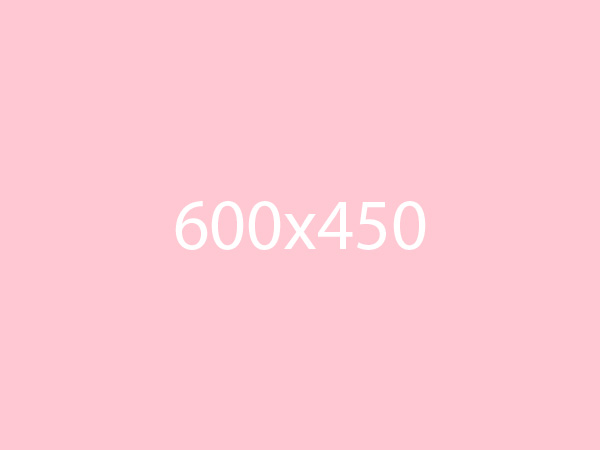
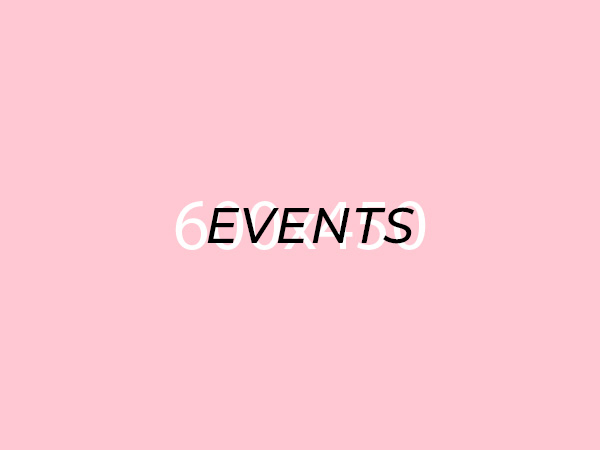
Add files via upload

Changed region(s): [[0.33, 0.4356, 0.69, 0.56]]

diff --git a/index.html b/index.html
@@ -53,7 +53,6 @@
 						<li><a href="#about-section">About</a></li>
 						<li><a href="#services-section">What I Do</a></li>
 						<li><a href="#works-section">Works</a></li>
-						<li><a href="#blog-section">Blog</a></li>
 						<li><a href="#contact-section">Contact</a></li>
 					</ul>
 					<a href="#" class="close"></a>
@@ -61,10 +60,8 @@
 			</div>
 		</header>
 		
-		<!-- Container -->
 		<div class="container">
 
-			<!-- Section Started -->
 			<div class="section started">
 				<div class="slide" style="background-image: url(images/slide-bg-1.jpg);"></div>
 				<div class="centrize full-width">
@@ -161,134 +158,141 @@
 							<label><input type="radio" name="fl_radio" value="box-item" />All</label>
 						</div>
 						<div class="f_btn">
-							<label><input type="radio" name="fl_radio" value="f-branding" />Branding</label>
+							<label><input type="radio" name="fl_radio" value="f-events" />Events</label>
 						</div>
 						<div class="f_btn">
-							<label><input type="radio" name="fl_radio" value="f-mockups" />Mockups</label>
+							<label><input type="radio" name="fl_radio" value="f-corpo" />Corporate</label>
 						</div>
 						<div class="f_btn">
-							<label><input type="radio" name="fl_radio" value="f-ui" />UI Kits</label>
+							<label><input type="radio" name="fl_radio" value="f-mockup" />Mockup</label>
 						</div>
 						<div class="f_btn">
-							<label><input type="radio" name="fl_radio" value="f-photo" />Photography</label>
+							<label><input type="radio" name="fl_radio" value="f-network" />Network</label>
 						</div>
 					</div>
 					<div class="row box-items">
-						<div class="col col-m-12 col-t-6 col-d-6 box-item f-mockups">
+						
+						<div class="col col-m-12 col-t-6 col-d-6 box-item f-events">
 							<div class="item animated">
 								<div class="desc">
 									<div class="image">
-										<a href="#popup-1" class="has-popup"><img src="images/works/work1.jpg" alt="" /></a>
+										<a href="#popup-1" class="has-popup"><img src="images/works/event.jpg" alt="" /></a>
 									</div>
-									<div class="category">Mockups</div>
+									<div class="category">Event</div>
 									<div class="name">
-										<a href="#popup-1" class="has-popup">Shopping Bag PSD MockUp</a>
+										<a href="#popup-1" class="has-popup">Pageants</a>
 									</div>
 								</div>
 							</div>
 							<div id="popup-1" class="popup-box mfp-fade mfp-hide">
 								<div class="content">
 									<div class="image">
-										<img src="images/works/work1.jpg" alt="">
+										<img src="images/works/event.jpg" alt="">
 									</div>
 									<div class="desc">
-										<div class="category">Mockups</div>
-										<h4>Shopping Bag PSD MockUp</h4>
+										<div class="category">Event</div>
+										<h4>Pageants</h4>
 										<p>
-											Here’s a new b-cards mock-up with several business cards scattered across the scene. The PSD file allows you to easily. Here’s a new b-cards mock-up with several business cards scattered across the scene.
+											We create stunning visuals for pageants in Palawan, including the renowned Miss Puerto Princesa, enhancing the event with dynamic graphics and captivating live visuals..
 										</p>
 										<a href="#" class="btn">View Project</a>
 									</div>
 								</div>
 							</div>
 						</div>
-						<div class="col col-m-12 col-t-6 col-d-6 box-item f-branding">
+						
+						
+						<div class="col col-m-12 col-t-6 col-d-6 box-item f-corpo">
 							<div class="item animated">
 								<div class="desc">
 									<div class="image">
-										<a href="#popup-2" class="has-popup"><img src="images/works/work2.jpg" alt="" /></a>
+										<a href="#popup-2" class="has-popup"><img src="images/works/web1.jpg" alt="" /></a>
 									</div>
-									<div class="category">Branding</div>
+									<div class="category">Website</div>
 									<div class="name">
-										<a href="#popup-2" class="has-popup">Realistic Business Cards</a>
+										<a href="#popup-2" class="has-popup">Resort in Palawan</a>
 									</div>
 								</div>
 							</div>
 							<div id="popup-2" class="popup-box mfp-fade mfp-hide">
 								<div class="content">
 									<div class="image">
-										<img src="images/works/work2.jpg" alt="">
+										<img src="images/works/web1.jpg" alt="">
 									</div>
 									<div class="desc">
-										<div class="category">Branding</div>
-										<h4>Hanging Wall Sign</h4>
+										<div class="category">Website</div>
+										<h4>Resort in Palawan</h4>
 										<p>
-											The freebie of the day is a logo design kit with an original theme that will help you create 
-											stunning mountain bike related logos in just minutes.
+											Involves crafting a visually stunning and user-friendly platform that showcases the resort's unique offerings while providing an exceptional user experience..
 										</p>
-										<a href="#" class="btn">View Project</a>
+										<a href="https://costapalawanresort.com" class="btn">View Project</a>
 									</div>
 								</div>
 							</div>
 						</div>
-						<div class="col col-m-12 col-t-6 col-d-6 box-item f-mockups">
+						
+						
+						<div class="col col-m-12 col-t-6 col-d-6 box-item f-corpo">
 							<div class="item animated">
 								<div class="desc">
 									<div class="image">
-										<a href="#popup-3" class="has-popup"><img src="images/works/work3.jpg" alt="" /></a>
+										<a href="#popup-3" class="has-popup"><img src="images/works/web2.jpg" alt="" /></a>
 									</div>
-									<div class="category">Mockups</div>
+									<div class="category">Website</div>
 									<div class="name">
-										<a href="#popup-3" class="has-popup">Realistic Business Cards</a>
+										<a href="#popup-3" class="has-popup">Hotel in Palawan</a>
 									</div>
 								</div>
 							</div>
 							<div id="popup-3" class="popup-box mfp-fade mfp-hide">
 								<div class="content">
 									<div class="image">
-										<img src="images/works/work3.jpg" alt="">
+										<img src="images/works/web2.jpg" alt="">
 									</div>
 									<div class="desc">
-										<div class="category">Mockups</div>
-										<h4>Realistic Business Cards</h4>
+										<div class="category">Website</div>
+										<h4>Hotel in Palawan</h4>
 										<p>
-											Today we’re happy to share with you the mockup of a classic notebook that will help you showcase your drawings. Today we’re happy to share with you the mockup of a classic notebook that will help.
+											The website aims to showcase the hotel’s unique offerings and attract guests by highlighting its location, amenities, and local attractions.
+											
 										</p>
-										<a href="#" class="btn">View Project</a>
+										<a href="https://oneelnidosuite.com/" class="btn">View Project</a>
 									</div>
 								</div>
 							</div>
 						</div>
-						<div class="col col-m-12 col-t-6 col-d-6 box-item f-branding">
+						
+						
+						<div class="col col-m-12 col-t-6 col-d-6 box-item f-network">
 							<div class="item animated">
 								<div class="desc">
 									<div class="image">
-										<a href="#popup-4" class="has-popup"><img src="images/works/work4.jpg" alt="" /></a>
+										<a href="#popup-4" class="has-popup"><img src="images/works/topo.jpg" alt="" /></a>
 									</div>
-									<div class="category">Branding</div>
+									<div class="category">Network</div>
 									<div class="name">
-										<a href="#popup-4" class="has-popup">Juice Bottle Packaging</a>
+										<a href="#popup-4" class="has-popup">Resort Network Topology</a>
 									</div>
 								</div>
 							</div>
 							<div id="popup-4" class="popup-box mfp-fade mfp-hide">
 								<div class="content">
 									<div class="image">
-										<img src="images/works/work4.jpg" alt="">
+										<img src="images/works/topo.jpg" alt="">
 									</div>
 									<div class="desc">
-										<div class="category">Branding</div>
-										<h4>Juice Bottle Packaging</h4>
+										<div class="category">Network</div>
+										<h4>Resort Network Topology</h4>
 										<p>
-											Today we have for you a set of 20 icons available in 2 styles: colored flat and line version, 
-											designed on a 128px grid. These polished icons come in multiple formats so you can easily include them in your projects.
+											The network topology includes 130+ IP phones, 20+ gigabit switches, 20+ access points, and a firewall with a captive portal that displays ads, ensuring seamless communication, fast data transfer, and secure user access..
 										</p>
-										<a href="#" class="btn">View Project</a>
 									</div>
 								</div>
 							</div>
 						</div>
-						<div class="col col-m-12 col-t-6 col-d-6 box-item f-photo">
+						
+						
+						<div class="col col-m-12 col-t-6 col-d-6 box-item f-network">
 							<div class="item animated">
 								<div class="desc">
 									<div class="image">
@@ -316,6 +320,8 @@
 								</div>
 							</div>
 						</div>
+						
+						
 						<div class="col col-m-12 col-t-6 col-d-6 box-item f-ui">
 							<div class="item animated">
 								<div class="desc">
@@ -344,6 +350,8 @@
 								</div>
 							</div>
 						</div>
+						
+						
 					</div>
 					<div class="clear"></div>
 				</div>
@@ -394,9 +402,9 @@
 				</div>
 			</div>
 
-			<!-- Footer -->
 			<footer class="align-center">
-				<div class="copy animated">© 2016 Hendrie. all rights reserved.</div>
+				<div class="copy animated">© 2025 alb. all rights reserved.</div>
+				<!-- Section About 
 				<div class="st-soc animated">
 					<a target="blank" href="https://www.facebook.com"><i class="icon ion ion-social-facebook"></i></a>
 					<a target="blank" href="https://github.com"><i class="icon ion ion-social-github"></i></a>
@@ -404,6 +412,7 @@
 					<a target="blank" href="https://www.youtube.com"><i class="icon ion ion-social-youtube"></i></a>
 					<a target="blank" href="https://plus.google.com"><i class="icon ion ion-social-googleplus"></i></a>
 				</div>
+				-->
 			</footer>
 			
 		</div>
